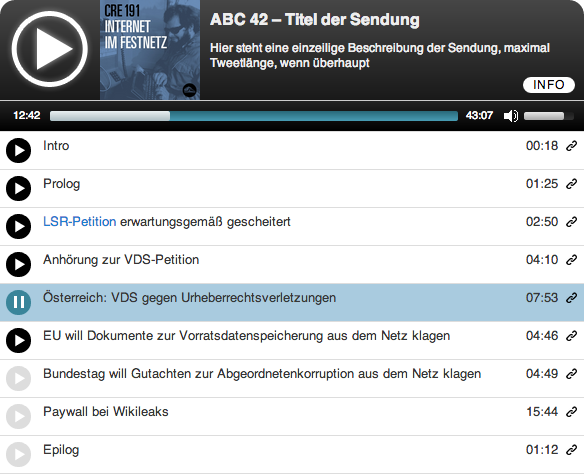
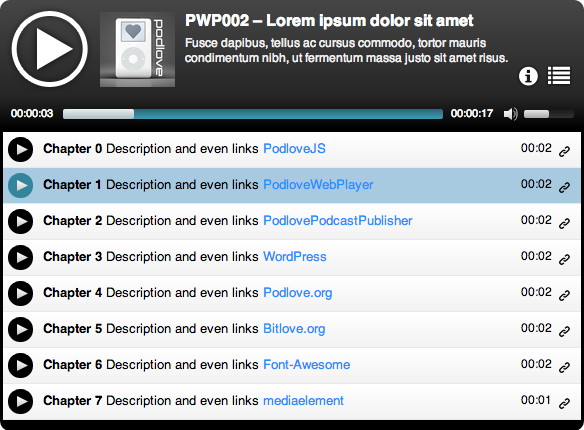
rearrange of info and chapter buttons, small style change, another example added, screenshot image updated

diff --git a/standalone-big.html b/standalone-big.html
@@ -1,0 +1,51 @@
+<!DOCTYPE html>
+<html lang="en">
+<head>
+	<meta charset="utf-8" />
+	<title>Podlove Web Player Standalone Big</title>
+
+	<link href="mediaelement/build/mediaelementplayer.min.css" rel="stylesheet" media="screen" type="text/css" />
+	<link href="fontawesome/css/font-awesome.min.css" rel="stylesheet" media="screen" type="text/css" />
+	<link href="podlove-web-player.css" rel="stylesheet" media="screen" type="text/css" />
+
+	<script src="libs/html5shiv.js"></script>
+	<script src="libs/jquery-1.9.1.min.js"></script>
+	<script src="mediaelement/build/mediaelement-and-player.min.js"></script>
+	<script src="podlove-web-player.js"></script>
+	<script src="http://cdn.simon.waldherr.eu/projects/LoremSonitus/fsk.js"></script>
+</head>
+<body>
+
+	<audio id="testplayer">
+		<source id="fsk" src="" type="audio/wav" />
+		<h3 data-pwp="title">PWP002 – Lorem ipsum dolor sit amet</h3>
+		<h4 data-pwp="subtitle">Fusce dapibus, tellus ac cursus commodo, tortor mauris condimentum nibh, ut fermentum massa justo sit amet risus.</h4>
+		<p data-pwp="summary">Summary and even links <a href="https://github.com/gerritvanaaken/podlovejs">PodloveJS</a><br/>
+Morbi leo risus, porta ac consectetur ac, vestibulum at eros. Fusce dapibus, tellus ac cursus commodo, tortor mauris condimentum nibh, ut fermentum massa justo sit amet risus. Maecenas sed diam eget risus varius blandit sit amet non magna. Maecenas sed diam eget risus varius blandit sit amet non magna.<br/>
+Nullam id dolor id nibh ultricies vehicula ut id elit. Nulla vitae elit libero, a pharetra augue. Cum sociis natoque penatibus et magnis dis parturient montes, nascetur ridiculus mus. Fusce dapibus, tellus ac cursus commodo, tortor mauris condimentum nibh, ut fermentum massa justo sit amet risus. Cras mattis consectetur purus sit amet fermentum. Nullam id dolor id nibh ultricies vehicula ut id elit. Praesent commodo cursus magna, vel scelerisque nisl consectetur et.</p>
+		<div data-pwp="chapters">
+			00:00:00.000 <b>Chapter 0</b> Description and even links <a href="https://github.com/gerritvanaaken/podlovejs">PodloveJS</a>
+			00:00:02.400 <b>Chapter 1</b> Description and even links <a href="https://github.com/gerritvanaaken/podlove-web-player">PodloveWebPlayer</a>
+			00:00:04.800 <b>Chapter 2</b> Description and even links <a href="https://github.com/eteubert/podlove">PodlovePodcastPublisher</a>
+			00:00:07.200 <b>Chapter 3</b> Description and even links <a href="https://github.com/WordPress/WordPress">WordPress</a>
+			00:00:09.600 <b>Chapter 4</b> Description and even links <a href="http://podlove.org/">Podlove.org</a>
+			00:00:12.000 <b>Chapter 5</b> Description and even links <a href="http://bitlove.org/">Bitlove.org</a>
+			00:00:14.400 <b>Chapter 6</b> Description and even links <a href="https://github.com/fortawesome/Font-Awesome/">Font-Awesome</a>
+			00:00:16.800 <b>Chapter 7</b> Description and even links <a href="https://github.com/johndyer/mediaelement">mediaelement</a>
+		</div>
+	</audio>
+	<script>
+		var SoundGenInput = document.getElementById('testplayer').innerHTML;
+		document.getElementById('fsk').src = FSKencode(SoundGenInput);
+		
+		$('#testplayer').podlovewebplayer({
+			duration: '00:17.213',
+			poster: 'samples/coverimage.png',
+			alwaysShowHours: true,
+			startVolume: 0.5,
+			chapterlinks: 'all'
+		});
+	</script>
+	
+</body>
+</html>

diff --git a/podlove-web-player.js b/podlove-web-player.js
@@ -309,17 +309,16 @@
 			if (typeof params.summary !== 'undefined' || typeof params.chapters !== 'undefined') {
 				wrapper.find('.podlovewebplayer_meta').append('<div class="togglers"></div>');
 			}
-			if (typeof params.chapters !== 'undefined') {
-				wrapper.find('.togglers').append(
-					'<a href="#" class="chaptertoggle infobuttons icon-list" title="show/hide chapters"></a>');
-			}
 			if (typeof params.summary !== 'undefined') {
 				wrapper.find('.togglers').append(
 					'<a href="#" class="infowindow infobuttons icon-info-sign" title="more information on the episode"></a>');
 				wrapper.find('.podlovewebplayer_meta').after(
 					'<div class="summary">'+params.summary+'</div>');
 			}
-			
+			if (typeof params.chapters !== 'undefined') {
+				wrapper.find('.togglers').append(
+					'<a href="#" class="chaptertoggle infobuttons icon-list" title="show/hide chapters"></a>');
+			}
 		}
 
 		//build chapter table

diff --git a/podlove-web-player.css b/podlove-web-player.css
@@ -223,7 +223,7 @@
 }
 
 .podlovewebplayer_meta .subtitle {
-	margin-right: 7px;
+	margin-right: 75px;
 	font-size: 12px;
 	color: #eee!important;
 }
@@ -260,6 +260,18 @@
 	min-height: 38px;
 	height: auto;
 	padding: 20px 10px;
+}
+
+.summary.active a:visited {
+	color: blue;
+}
+
+.summary.active a:hover {
+	text-decoration: underline;
+}
+
+.summary.active a {
+	text-decoration: none;
 }
 
 .podlovewebplayer_meta .togglers {
